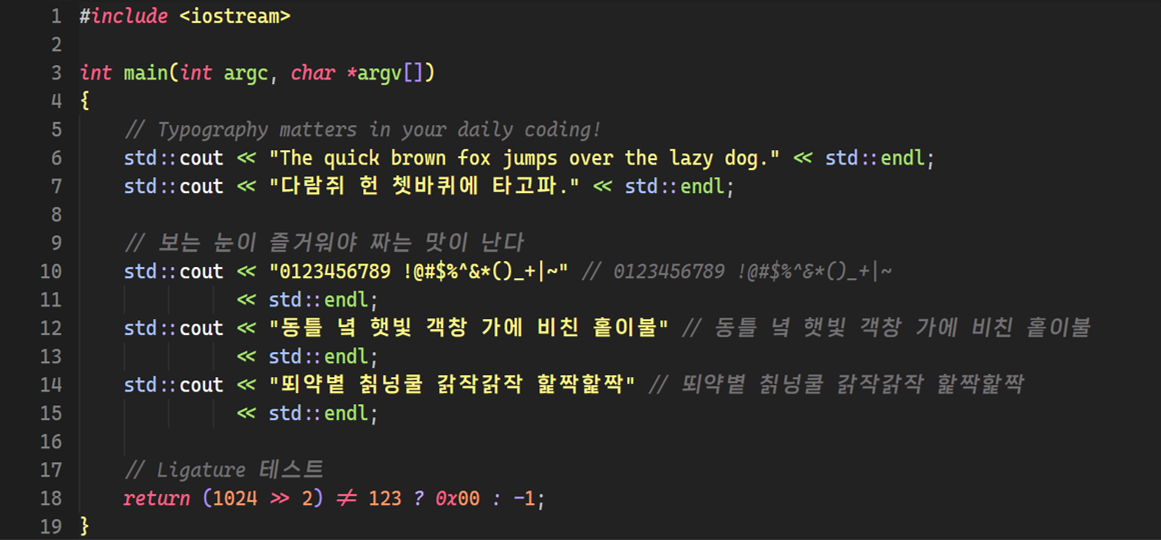
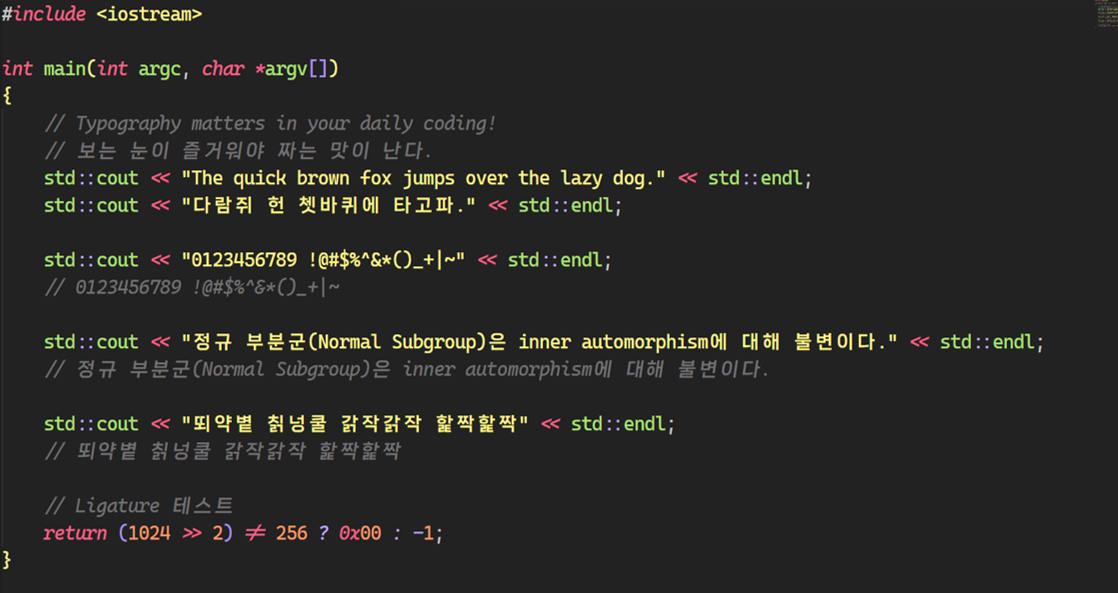
Update images

diff --git a/build.py b/build.py
@@ -478,9 +478,7 @@ def _worker_build(task):
         )
 
     except Exception:
-        traceback.print_exc()
-
-        
+        traceback.print_exc()  
 
 def merge_all(test_mode = False):
     if os.path.exists(OUTPUT_DIR): shutil.rmtree(OUTPUT_DIR)